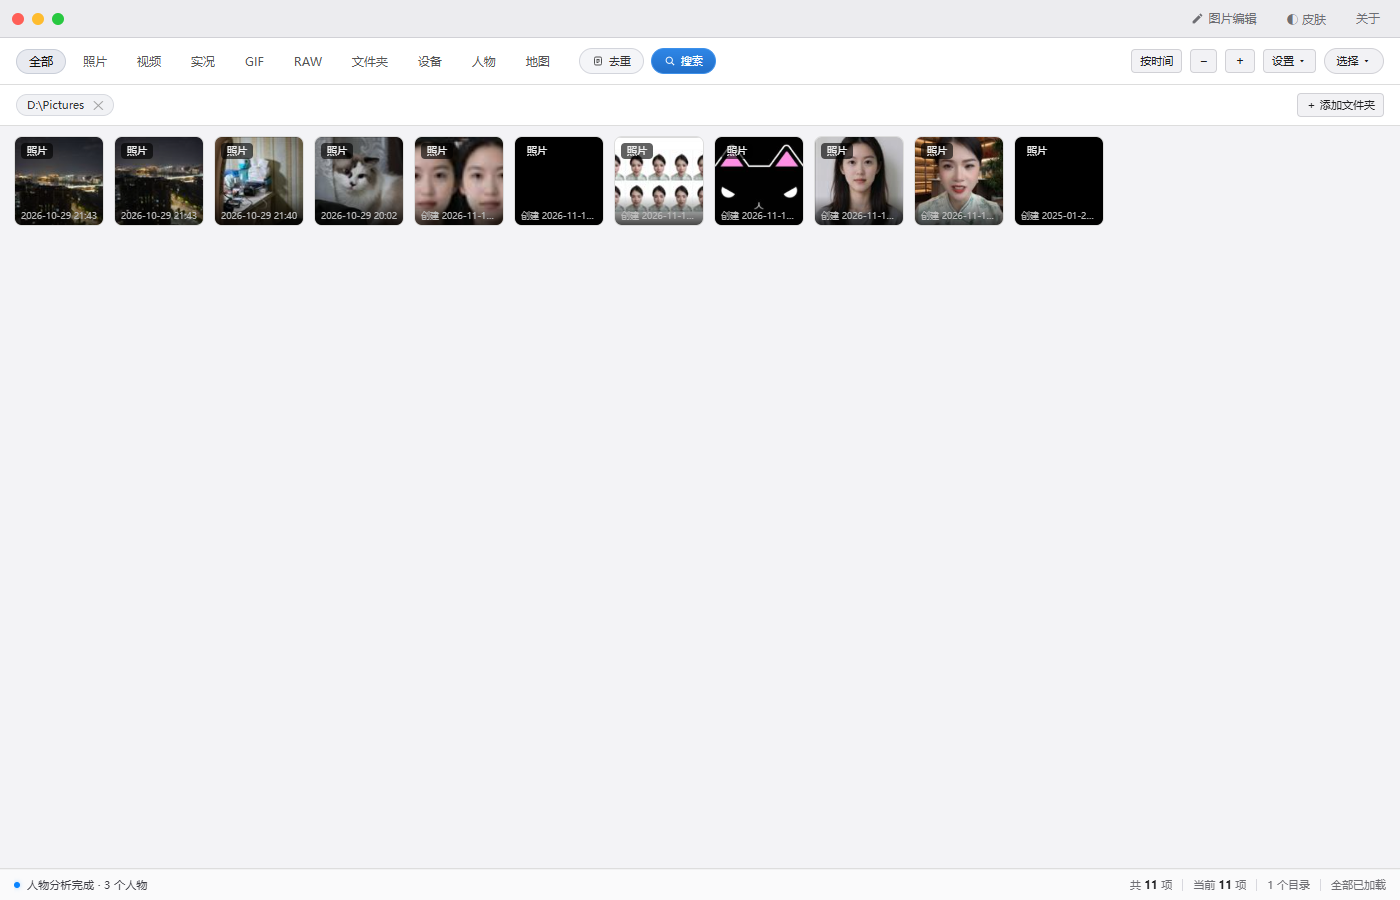
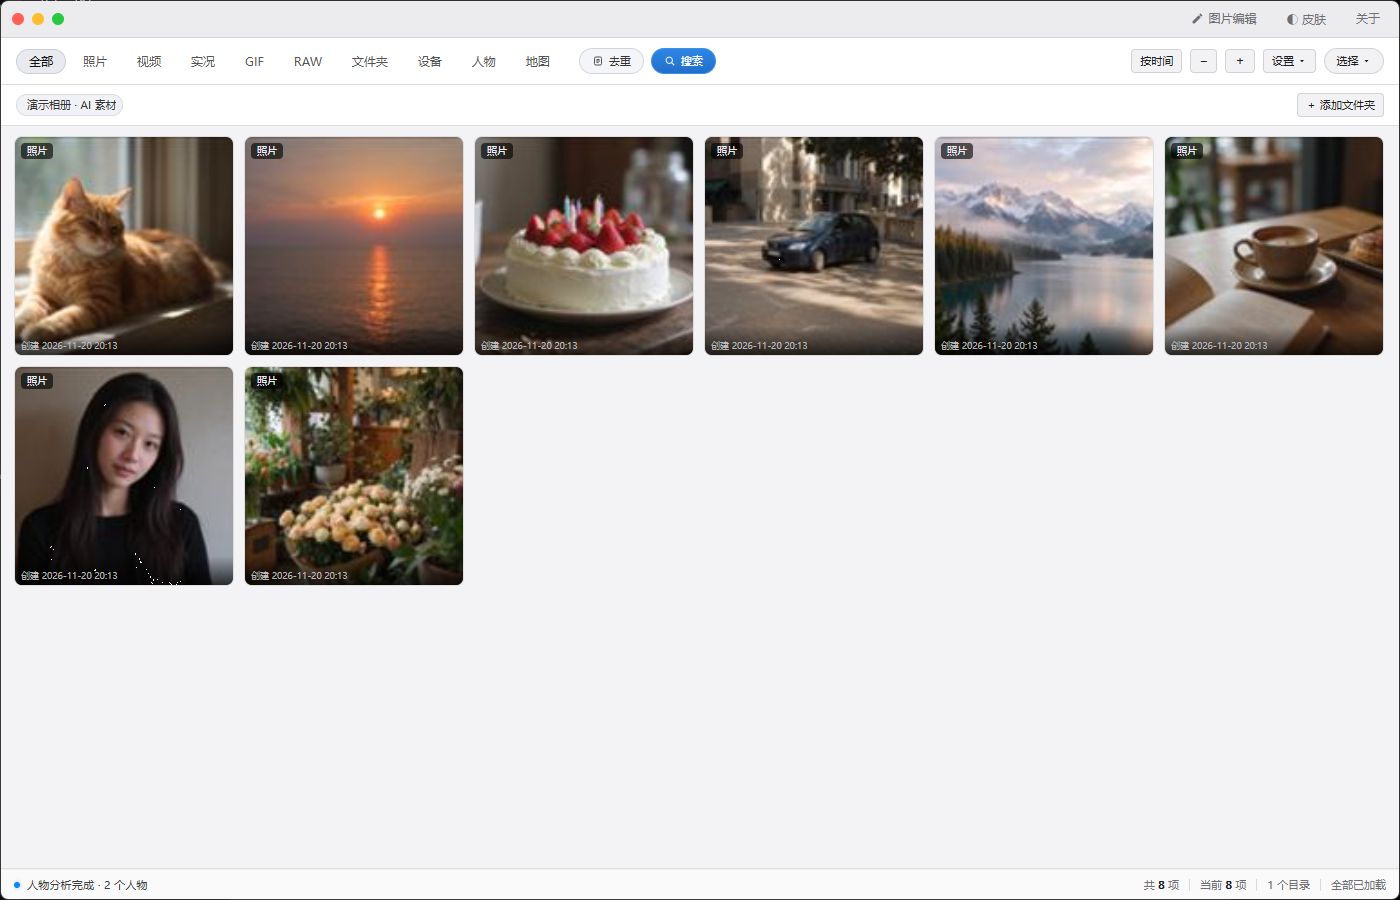
docs: use clean AI demo screenshots in v2.10 README

diff --git a/README.md b/README.md
@@ -126,10 +126,6 @@
 - **标题折叠 / 展开**：日期、文件夹、机型标题均可点击折叠或展开，保留折叠状态
 - **标题整组选择**：选择模式下点击日期 / 文件夹 / 机型标题，可一次选中该组全部内容
 
-![分类按时间](docs/screenshots/album_v2_time.png)
-
-![自动更新](docs/screenshots/album_v2_autoupdate.png)
-
 - **删除缓存**：一键清理扫描索引、缩略图与视频封面缓存、修图临时文件，并提示释放空间
 - **EXIF 详情、地图聚类、人物聚类、dHash 去重、应用内回收站、右键菜单（详细信息 / 另存为 / 编辑 / 删除）、批量导入修图**
 
@@ -139,45 +135,6 @@
 - WebView2（前端 UI）
 - Python 嵌入（onnxruntime + numpy + Pillow + OpenCV）
 - ONNX 模型：SqueezeNet（场景分类）、YuNet（人脸检测）、GFPGAN v1.4（人脸修复）、BiSeNet ResNet18（人脸分割）、MediaPipe FaceMesh 468（关键点）、Chinese-CLIP ViT-B/16（相册语义搜索）、PP-OCRv4 mobile（图片内文字识别）
-
-## 效果预览
-
-每张都是「原图 / 处理结果」对照，均由程序实际处理输出（超分一项在缺少 Real-ESRGAN 权重时为 Lanczos 回退）。
-
-**调色 · LUT**
-
-| | |
-|:--:|:--:|
-| ![LUT 套用](assets/previews/fx_lut.jpg)<br>**LUT 套用**（徕卡 Classic，强度 80%） | ![胶片质感](assets/previews/fx_film.jpg)<br>**胶片质感**（颗粒 75 / 漏光 45 / halation 65） |
-| ![8bit 抖动](assets/previews/fx_linear.jpg)<br>**8bit 抖动**（渐变断层 vs 抖动打散） | ![参考图转 LUT](assets/previews/fx_reflut.jpg)<br>**参考图 → 33³ .cube** |
-
-**色彩与画质**
-
-| | |
-|:--:|:--:|
-| ![色彩调整](assets/previews/fx_color.jpg)<br>**色彩调整**（饱和/对比/阴影/高光/色温） | ![清晰度](assets/previews/fx_sharpen.jpg)<br>**清晰度加强** |
-| ![超分](assets/previews/fx_sr.jpg)<br>**全图超分 2×**（左：双线性放大） | ![景深](assets/previews/fx_dof.jpg)<br>**景深虚化**（主体保护，强度 80 / 对焦 50%） |
-| ![移轴](assets/previews/fx_tilt.jpg)<br>**移轴**（合焦带 34% + 模糊 11px） | |
-
-**人像**
-
-| | |
-|:--:|:--:|
-| ![美颜](assets/previews/fx_beauty.jpg)<br>**美颜**（磨皮/美白/祛斑/口红） | ![液化](assets/previews/fx_liquid.jpg)<br>**液化**（下巴双下颌修正） |
-
-**证件照**
-
-| | |
-|:--:|:--:|
-| ![证件照换底](assets/previews/fx_idphoto.jpg)<br>**换底色 + 自动居中**（一寸 295×413） | ![相纸排版](assets/previews/fx_idsheet.jpg)<br>**相纸排版**（六寸 1800×1200 + 裁切线） |
-
-**辅助工具**
-
-| | | |
-|:--:|:--:|:--:|
-| ![自动挑片](assets/previews/fx_pick.jpg)<br>**自动挑片**（清晰度/曝光/闭眼打分） | ![配色提取](assets/previews/fx_palette.jpg)<br>**配色提取**（主色 + 占比） | |
-
-更多 v1.05 实拍对比：[美颜四格](docs/screenshots/美颜效果对比.png) · [下巴修复](docs/screenshots/下巴修复对比.png) · [AI 细节增强](docs/screenshots/AI增强对比.png) · [美颜全套样张](docs/screenshots/美颜示例_全套.jpg)
 
 ## 系统要求
 
